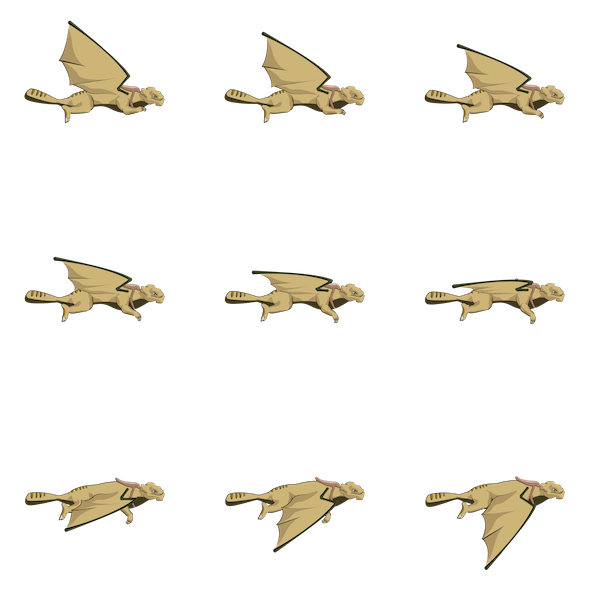
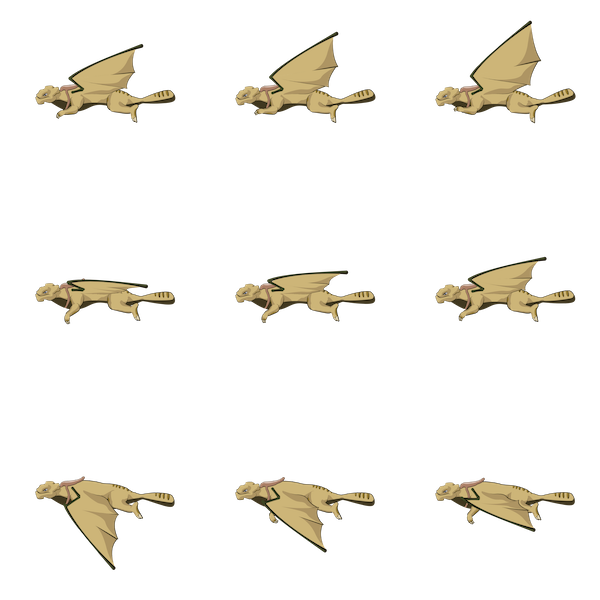
UPdates

diff --git a/dragons.js b/dragons.js
@@ -95,8 +95,8 @@
       that.context.clearRect(0, 0, 1200, 1200);
       that.context.drawImage(
         that.image,
-          that.xIndex * that.width,
-          that.yIndex * that.height,
+        that.xIndex * that.width,
+        that.yIndex * that.height,
         that.width,
         that.height,
         xPosition,
@@ -134,7 +134,7 @@
     image: dragonImage,
     rowsInSheet: 3,
     columnsInSheet: 3,
-    ticksPerFrame: 3
+    ticksPerFrame: 1
   });
 
   canvas.addEventListener('mousemove', function (evt) {
@@ -144,7 +144,8 @@
 
   // Load sprite sheet
   dragonImage.addEventListener("load", gameLoop);
-  dragonImage.src = "images/ice_dragon.png";
+  dragonImage.src = "images/fire" +
+    "_dragon.png";
 
 }());
 

diff --git a/index.html b/index.html
@@ -4,7 +4,7 @@
     </head>
     <body style="background-image:url('images/water.jpg');background-size:contain; background-repeat:no-repeat;">
         <div style="padding: 30px;">
-        <div style="background-color: #ffffff; opacity: 0.8; border-radius: 25px; border: 2px solid #8AC007; padding: 20px; width: 400px; height: 30px;">
+        <div style="background-color: #ffffff; opacity: 0.8; border-radius: 25px; border: 2px solid #444444; padding: 20px; width: 400px; height: 30px;">
            <div style="text-align:center;"> Jousting Dragons! </div>
            <div style="text-align:center;"> (by Collin & Owen O'Neill) </div>
         </div>
